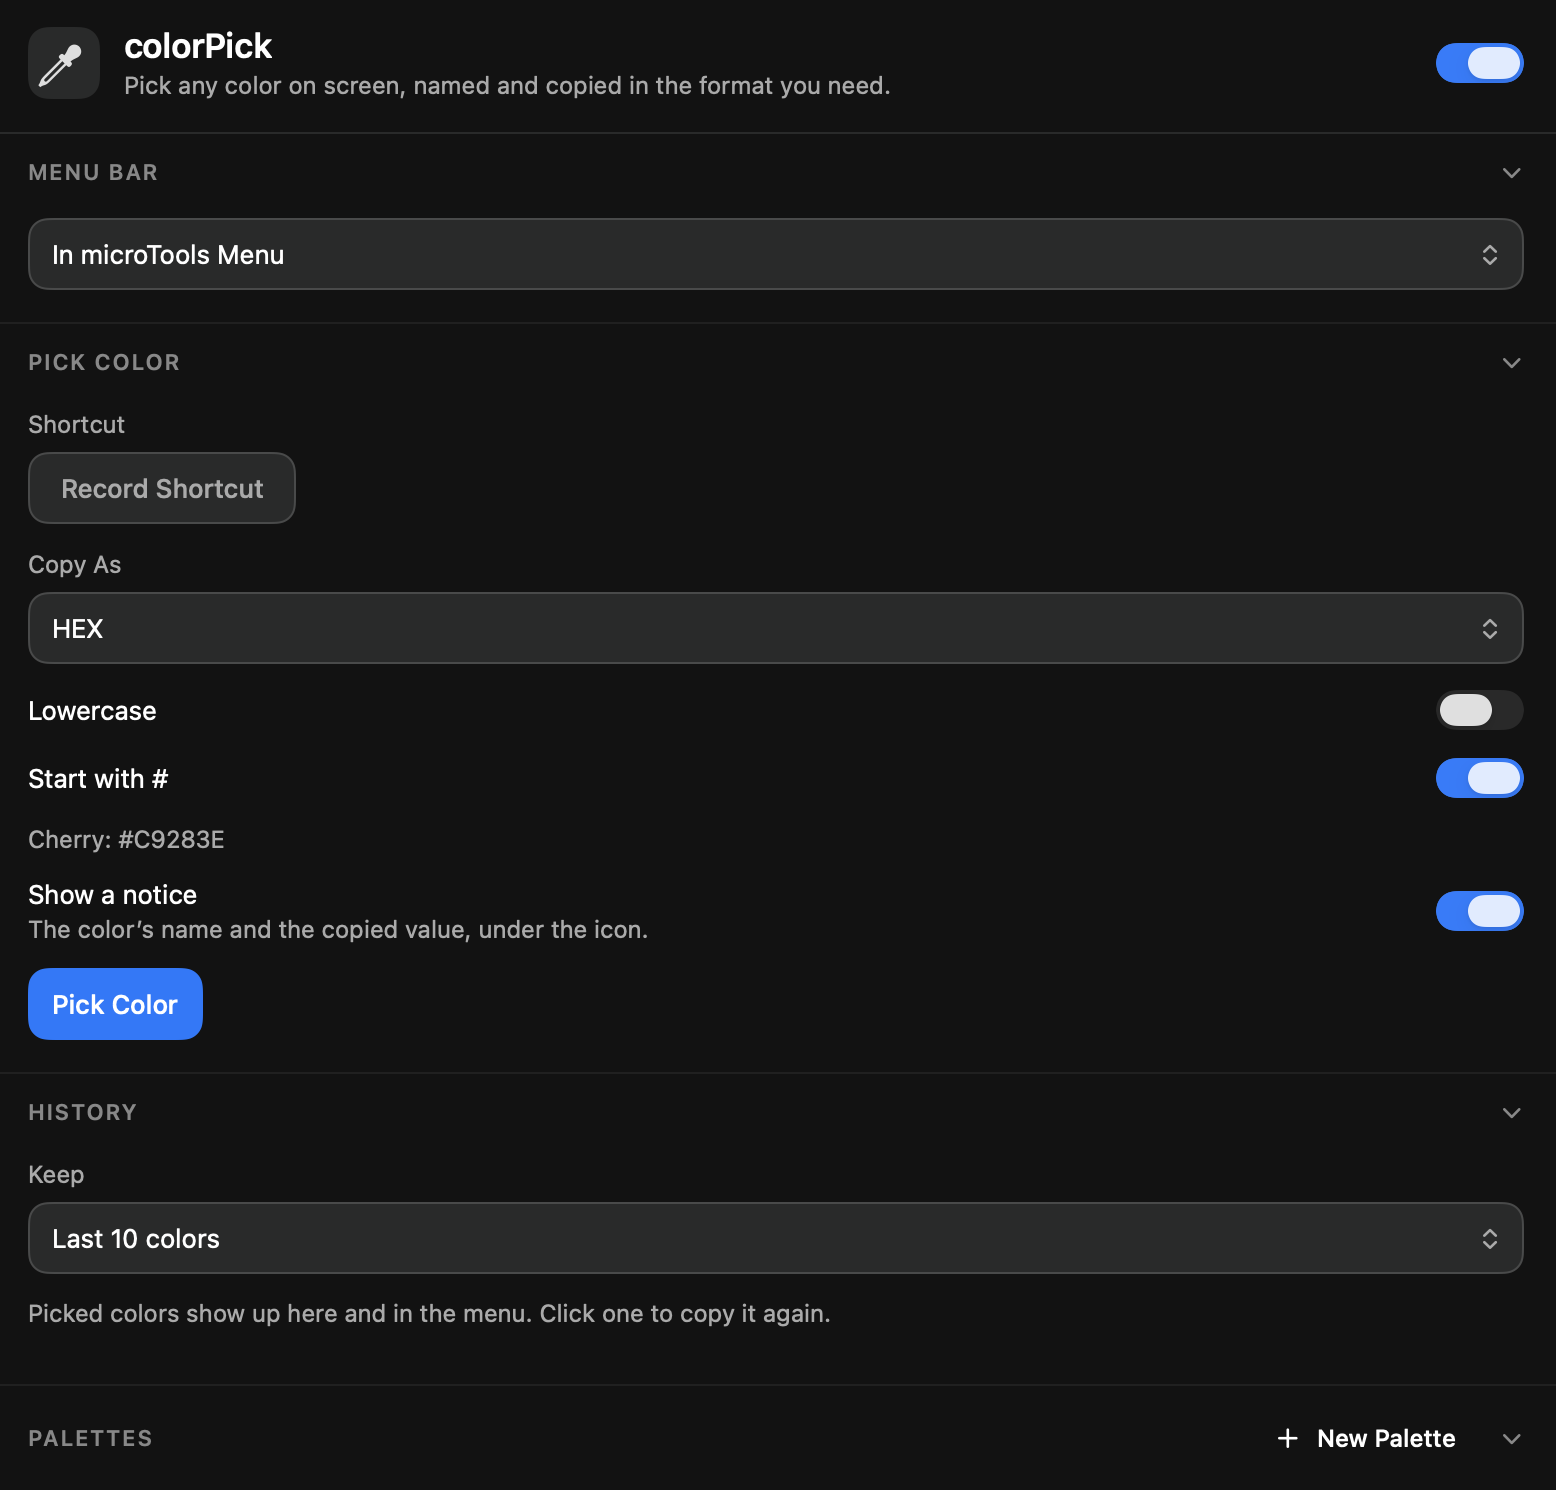
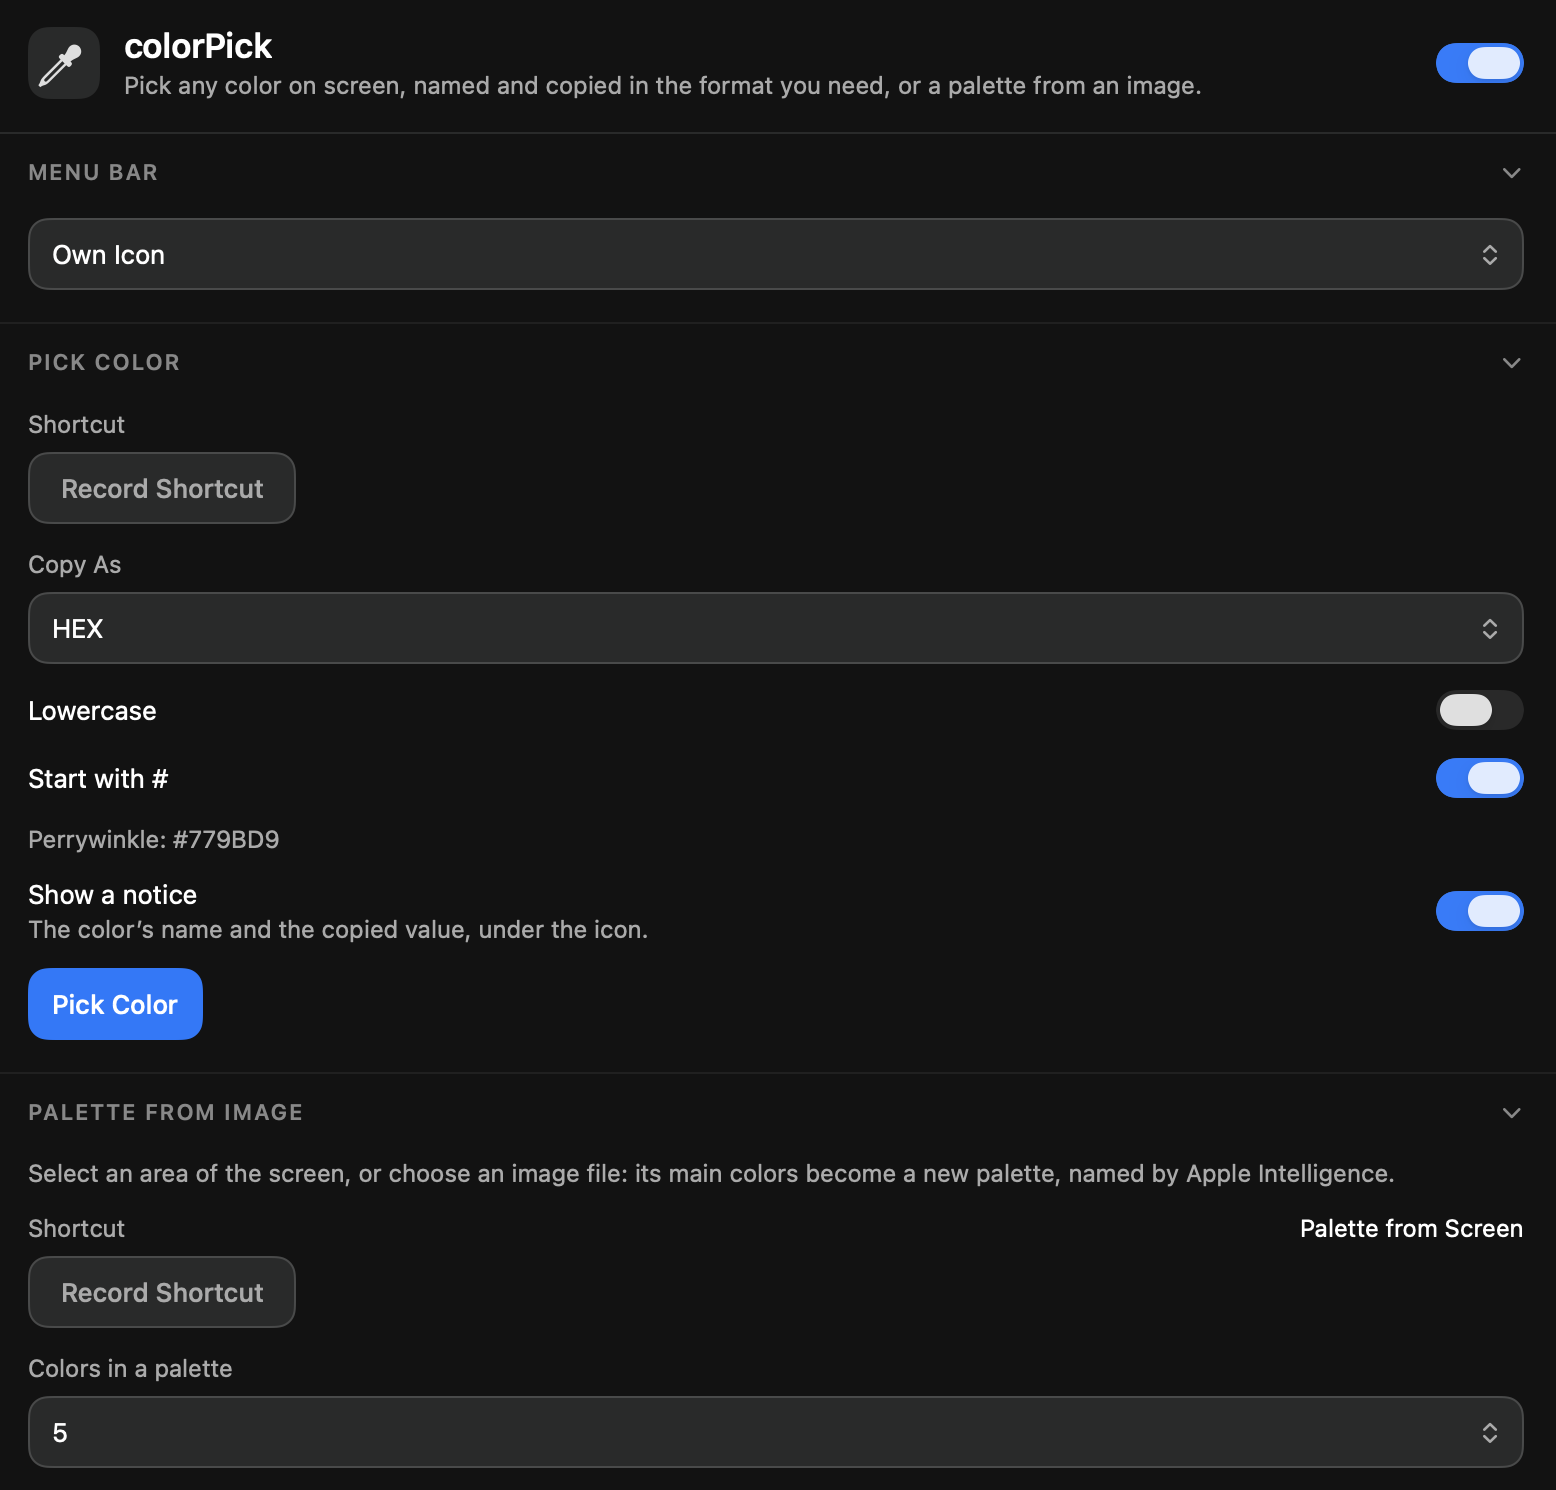
Landing and README: colorPick palette from an image

diff --git a/index.html b/index.html
@@ -220,7 +220,7 @@
       <a class="plugin-card" href="#mediaGrab"><svg><use href="#i-mediaGrab"/></svg><h3>mediaGrab</h3><p>Video, MP3 or images from the page in your browser.</p></a>
       <a class="plugin-card" href="#midiLink"><svg><use href="#i-midiLink"/></svg><h3>midiLink</h3><p>Bluetooth MIDI devices from the menu bar, and MIDI from one to another.</p></a>
       <a class="plugin-card" href="#shotGrab"><svg><use href="#i-shotGrab"/></svg><h3>shotGrab</h3><p>Text, QR codes and what an image shows, from any part of the screen — and screenshots named by what they show.</p></a>
-      <a class="plugin-card" href="#colorPick"><svg><use href="#i-colorPick"/></svg><h3>colorPick</h3><p>Pick any color on screen, named and copied in the format you need.</p></a>
+      <a class="plugin-card" href="#colorPick"><svg><use href="#i-colorPick"/></svg><h3>colorPick</h3><p>Pick any color on screen, named and copied in the format you need, or a palette from an image.</p></a>
       <a class="plugin-card" href="#keepAwake"><svg><use href="#i-keepAwake"/></svg><h3>keepAwake</h3><p>Keeps your Mac awake for a while, until you turn it off, or while a rule holds.</p></a>
       <a class="plugin-card" href="#deskClean"><svg><use href="#i-deskClean"/></svg><h3>deskClean</h3><p>A clean desktop for screen sharing, recording or focus.</p></a>
       <a class="plugin-card" href="#batteryCare"><svg><use href="#i-batteryCare"/></svg><h3>batteryCare</h3><p>Your Mac’s and your Bluetooth devices’ battery, from the menu bar.</p></a>
@@ -354,6 +354,7 @@
         <div><dt class="soft">Pick it</dt><dd>Anywhere on screen, from the menu bar or a keyboard shortcut. It tells you its name.</dd></div>
         <div><dt class="soft">Copied as you need it</dt><dd>HEX, RGB, HSL, OKLCH or Swift code. The last colors stay in the menu to copy again.</dd></div>
         <div><dt class="soft">Palettes</dt><dd>Keep colors under a name and copy a whole palette as CSS variables, JSON or a list.</dd></div>
+        <div><dt class="soft">Palette from an image</dt><dd>Select an area of the screen or choose an image: its main colors become a palette, named by Apple Intelligence.</dd></div>
       </dl>
     </div>
     <div class="window dark" data-shot="colorPick-dark" data-active="colorPick"></div>

diff --git a/README.md b/README.md
@@ -60,7 +60,7 @@ mediaGrab.microplugin/
 | mediaGrab | Video, MP3 or images from the page in your browser. |
 | midiLink | Bluetooth MIDI devices from the menu bar, and MIDI from one to another. |
 | shotGrab | Text, QR codes and what an image shows, from any part of the screen — and screenshots named by what they show. |
-| colorPick | Pick any color on screen, named and copied in the format you need. |
+| colorPick | Pick any color on screen, named and copied in the format you need, or a palette from an image. |
 | keepAwake | Keeps your Mac awake for a while, until you turn it off, or while a rule holds. |
 | deskClean | A clean desktop for screen sharing, recording or focus. |
 | batteryCare | Your Mac's and your Bluetooth devices' battery, from the menu bar. |
